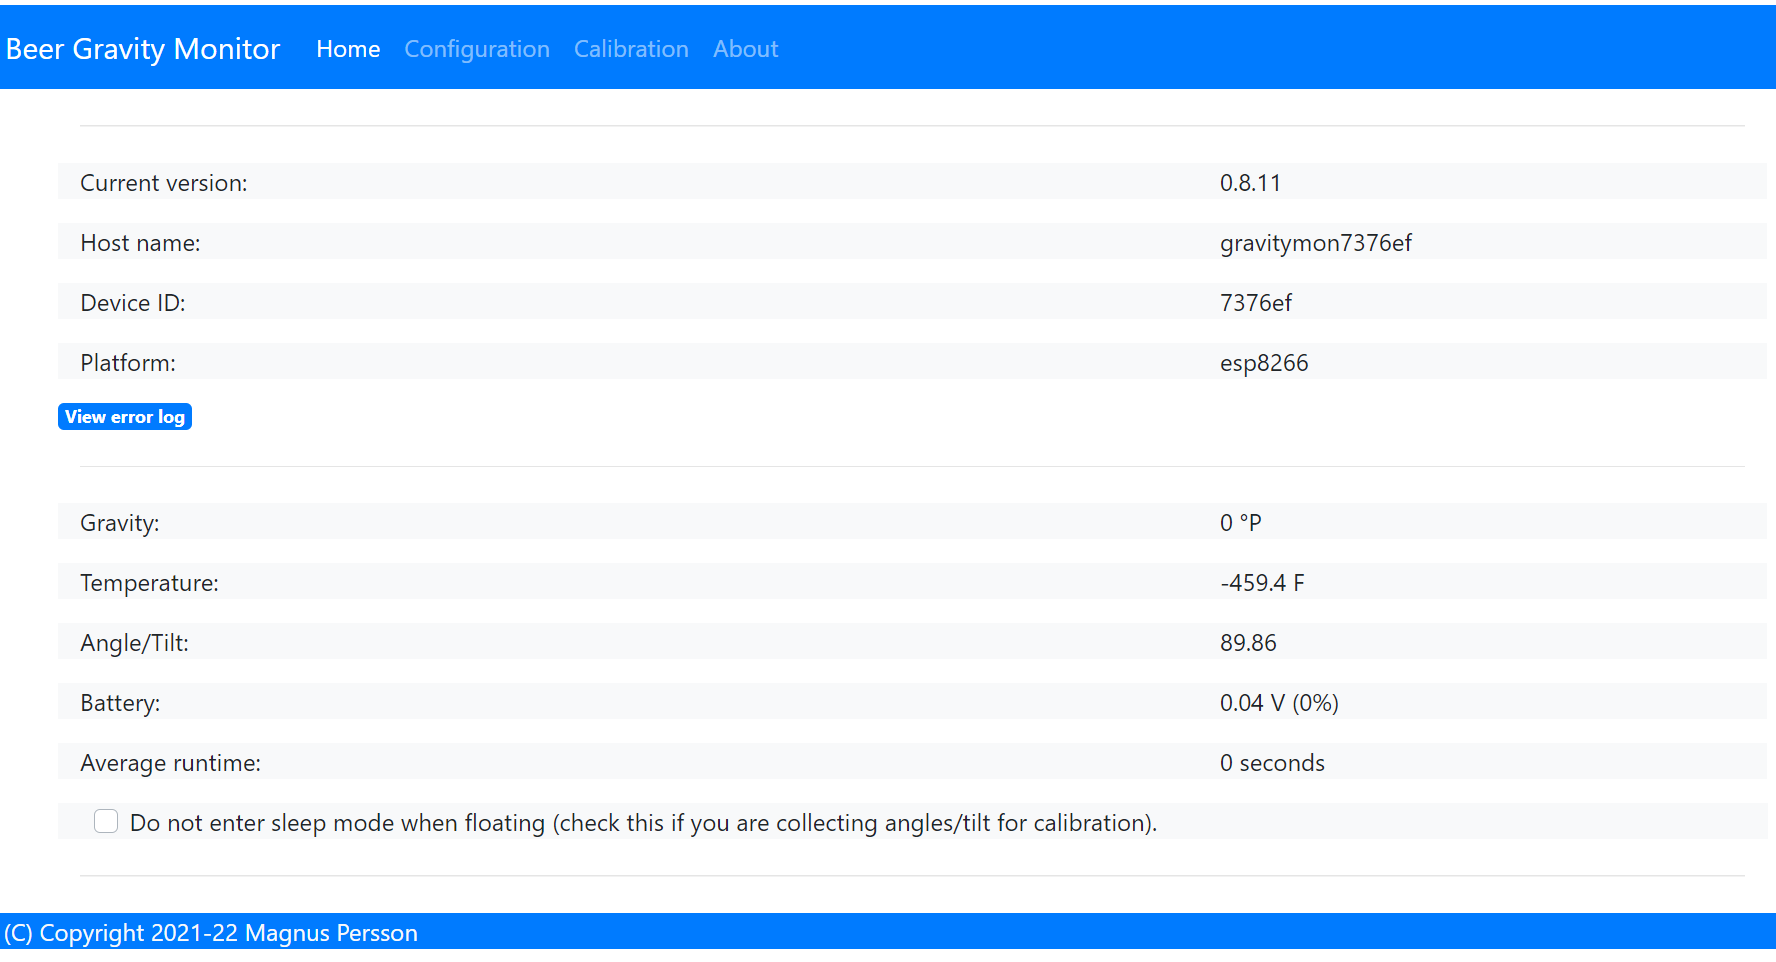
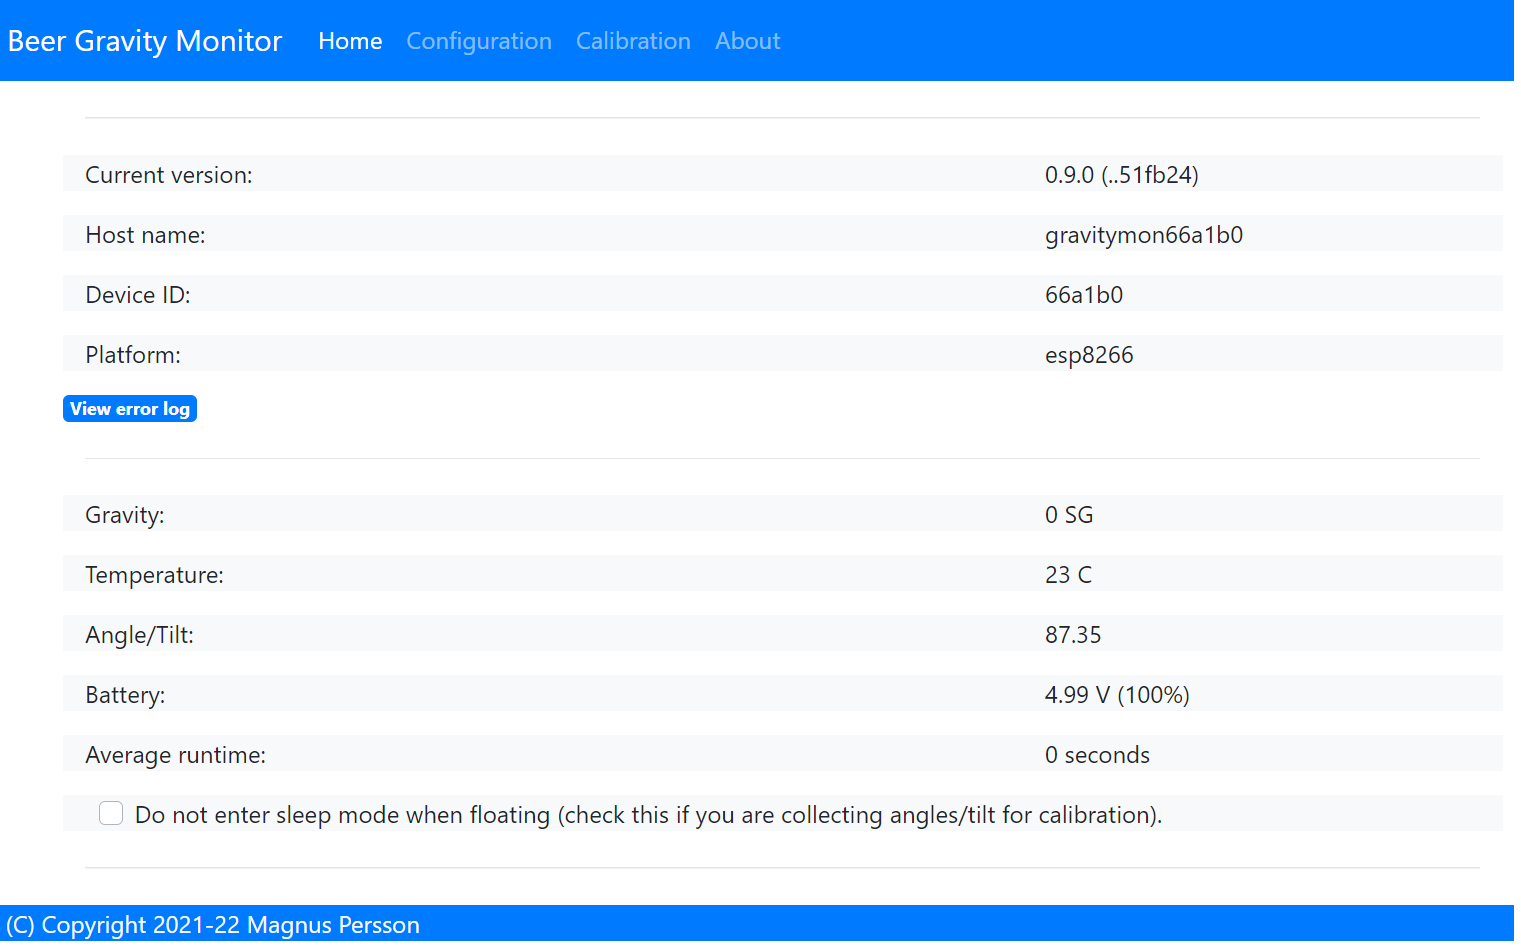
Update screendumps for 0.9

diff --git a/src_docs/source/configuration.rst b/src_docs/source/configuration.rst
@@ -22,6 +22,7 @@ URL: (http://gravmon.local)
   :width: 800
   :alt: Index page
 
+
 Configuration is accessed by entering the URL for the device, this will be the mDNS name *device.local* or the IP adress. The following chapter assumes the device name is *gravmon*.
 
 The main page shows the device readings; gravity, angle, temperature and battery charge. If the checkbox is active then the device will never go into sleep mode. This is useful if 
@@ -54,17 +55,17 @@ Device Setting
 
 * **Device name:** 
 
-   This is unique name for the device. It will be used in pushing data as well as mDNS name on the network (<name>.local)
+This is unique name for the device. It will be used in pushing data as well as mDNS name on the network (<name>.local)
 
 * **Temperature format:** 
 
-   Choose between Celsius and Farenheight when displaying temperature. 
+Choose between Celsius and Farenheight when displaying temperature. 
 
 * **Interval:** 
 
-   This defines how long the device should be sleeping between the readings when in `gravity monitoring` mode. You will also see 
-   the values in minutes/seconds to easier set the interval. 900s is a recommended interval.  The sleep interval can 
-   be set between 10 - 3600 seconds (60 minutes). 
+This defines how long the device should be sleeping between the readings when in `gravity monitoring` mode. You will also see 
+the values in minutes/seconds to easier set the interval. 900s is a recommended interval.  The sleep interval can 
+be set between 10 - 3600 seconds (60 minutes). 
 
 .. note::
 
@@ -75,7 +76,7 @@ Device Setting
 
 * **Calibration values:** 
 
-   These are calibration data for the gyro. Place the device flat on a table and press the button to save the default orientation values. Without this calibration we cannot calculate the correct angle/tilt.
+These are calibration data for the gyro. Place the device flat on a table and press the button to save the default orientation values. Without this calibration we cannot calculate the correct angle/tilt.
 
 .. warning::
 
@@ -95,58 +96,58 @@ Push Settings
 
 * **HTTP 1 (POST):**
 
-   Endpoint to send data via http. Default format used Format used :ref:`data-formats-ispindle`. You can customize the format using :ref:`format-editor`.
+Endpoint to send data via http. Default format used Format used :ref:`data-formats-ispindle`. You can customize the format using :ref:`format-editor`.
 
-   If you add the prefix `https://` then the device will use SSL when sending data.
+If you add the prefix `https://` then the device will use SSL when sending data.
 
 * **HTTP 2 (POST):**
 
-   Endpoint to send data via http. Default format used :ref:`data-formats-ispindle`. You can customize the format using :ref:`format-editor`.
+Endpoint to send data via http. Default format used :ref:`data-formats-ispindle`. You can customize the format using :ref:`format-editor`.
 
-   If you add the prefix `https://` then the device will use SSL when sending data. 
+If you add the prefix `https://` then the device will use SSL when sending data. 
 
 * **Token:**
 
-   The token is included in the iSpindle JSON format and will be used for both HTTP targets. If you 
-   need to have 2 different tokens please use the :ref:`format-editor` to customize the data format. 
+The token is included in the iSpindle JSON format and will be used for both HTTP targets. If you 
+need to have 2 different tokens please use the :ref:`format-editor` to customize the data format. 
 
 * **HTTP 3 (GET):**
 
-   Endpoint to send data via http. This is using an HTTP GET request instead of a post. This means that the values are appended to the URL like; http://endpoint?param=value&param2=value2. You can customize the format using :ref:`format-editor`.
+Endpoint to send data via http. This is using an HTTP GET request instead of a post. This means that the values are appended to the URL like; http://endpoint?param=value&param2=value2. You can customize the format using :ref:`format-editor`.
 
-   If you add the prefix `https://` then the device will use SSL when sending data. 
+If you add the prefix `https://` then the device will use SSL when sending data. 
 
 * **Token 2:**
 
-   The token is included in the default format for the HTTP GET url but can be used for any of the formats. For HTTP GET use can use this for an authorization token with for instance ubidots or blynk http api. 
+The token is included in the default format for the HTTP GET url but can be used for any of the formats. For HTTP GET use can use this for an authorization token with for instance ubidots or blynk http api. 
 
 * **Brewfather URL:**
 
-   Endpoint to send data via http to brewfather. Format used :ref:`data-formats-brewfather`
+Endpoint to send data via http to brewfather. Format used :ref:`data-formats-brewfather`
 
-   SSL is not supported for this target.
+SSL is not supported for this target.
 
 * **HTTP Headers**
 
-   .. image:: images/config-popup1.png
-      :width: 300
-      :alt: HTTP Headers
+.. image:: images/config-popup1.png
+   :width: 300
+   :alt: HTTP Headers
 
-   You can define 2 http headers per push target. This is available via a pop-up window but dont forget
-   to press the save buttons on the post section to save the values. One common header is content type which is the 
-   default setting for http targets.
+You can define 2 http headers per push target. This is available via a pop-up window but dont forget
+to press the save buttons on the post section to save the values. One common header is content type which is the 
+default setting for http targets.
 
-   The input must have the format **'<header>: <value>'** for it to work. The UI will accept any value so errors 
-   will not show until the device tries to push data.
-
-
-   ::
-      
-      Content-Type: application/json
-      X-Auth-Token: <api-token>
+The input must have the format **'<header>: <value>'** for it to work. The UI will accept any value so errors 
+will not show until the device tries to push data.
 
 
-   Mozilla has a good guide on what headers are valid; `HTTP Headers <https://developer.mozilla.org/en-US/docs/Web/HTTP/Headers>`_ 
+::
+   
+   Content-Type: application/json
+   X-Auth-Token: <api-token>
+
+
+Mozilla has a good guide on what headers are valid; `HTTP Headers <https://developer.mozilla.org/en-US/docs/Web/HTTP/Headers>`_ 
 
 
 Push Settings (2)
@@ -158,37 +159,37 @@ Push Settings (2)
 
 * **Influx DB v2 URL:**
 
-   Endpoint to send data via http to InfluxDB. Format used :ref:`data-formats-influxdb2`. You can customize the format using :ref:`format-editor`.
+Endpoint to send data via http to InfluxDB. Format used :ref:`data-formats-influxdb2`. You can customize the format using :ref:`format-editor`.
 
-   SSL is not supported for this target. Raise a issue on github if this is wanted.
+SSL is not supported for this target. Raise a issue on github if this is wanted.
 
 * **Influx DB v2 Organisation:**
 
-   Name of organisation in Influx.
+Name of organisation in Influx.
 
 * **Influx DB v2 Bucket:**
 
-   Identifier for bucket.
+Identifier for bucket.
 
 * **Influx DB v2 Token:**
 
-   Token with write access to bucket.
+Token with write access to bucket.
 
 * **MQTT server:**
 
-   IP or name of server to send data to. Default format used :ref:`data-formats-mqtt`. You can customize the format using :ref:`format-editor`.
+IP or name of server to send data to. Default format used :ref:`data-formats-mqtt`. You can customize the format using :ref:`format-editor`.
 
 * **MQTT Port:**
 
-   Which port should be used for communication, default is 1883 (standard port). For SSL use 8883 (any port over 8000 is treated as SSL). 
+Which port should be used for communication, default is 1883 (standard port). For SSL use 8883 (any port over 8000 is treated as SSL). 
 
 * **MQTT user:**
 
-   Username or blank if anonymous is accepted
+Username or blank if anonymous is accepted
 
 * **MQTT password:**
 
-   Password or blank if anonymous is accepted
+Password or blank if anonymous is accepted
    
 
 Gravity Settings
@@ -200,25 +201,26 @@ Gravity Settings
 
 * **Gravity format:**
 
-   Gravity format can be eihter `SG` or `Plato`. The device will use SG Internally and convert to Plato when displaying or sending data.
+Gravity format can be eihter `SG` or `Plato`. The device will use SG Internally and convert to Plato when displaying or sending data.
 
 * **Gravity formula:**
 
-   Gravity formula is compatible with standard iSpindle formulas so any existing calculation option can be used. You can also use 
-   the feature to create the formula by supplying the raw data. See :ref:`create-formula`
+Gravity formula is compatible with standard iSpindle formulas so any existing calculation option can be used. You can also use 
+the feature to create the formula by supplying the raw data. See :ref:`create-formula`
 
-   The gravity formula accepts to paramaters, **tilt** for the angle or **temp** for temperature (temperature inserted into the formula 
-   will be in celsius). I would recommend to use the formula calculation feature instead since this is much easier.
+The gravity formula accepts to paramaters, **tilt** for the angle or **temp** for temperature (temperature inserted into the formula 
+will be in celsius). I would recommend to use the formula calculation feature instead since this is much easier.
 
 * **Temperature correct gravity:**
 
-   Will apply a temperature calibration formula to the gravity as a second step after gravity has been calculated. It's also possible to 
-   build this into the gravity formula.
+Will apply a temperature calibration formula to the gravity as a second step after gravity has been calculated. It's also possible to 
+build this into the gravity formula.
 
 .. warning::
+
    This formula assumes that the calibration has been done at 20°C / 68°F.
 
-Formula used in temperature correction. 
+   Formula used in temperature correction. 
 
 ::
 
@@ -235,38 +237,47 @@ Hardware Settings
 
 * **Voltage factor:**
 
-   Factor used to calcualate the battery voltage. If you get a too low/high voltage you can adjust this value.
+Factor used to calcualate the battery voltage. If you get a too low/high voltage you can adjust this value.
 
 * **Temperature correction:**
 
-   This value will be added to the temperature reading (negative value will reduce temperature reading). This is applied
-   when the device starts. So changing this will not take affect until the device is restarted.
+This value will be added to the temperature reading (negative value will reduce temperature reading). This is applied
+when the device starts. So changing this will not take affect until the device is restarted.
 
 * **Gyro Temperature:**
 
-   Enable this feature will use the temp sensor i the gyro instead of the DS18B20, the benefit is shorter run time and
-   longer battery life (this is an experimental feature). The value used is the first temperature reading from when the 
-   device is activated, since the gyro should be cool this is reflecting the surronding temperature. After it has 
-   been running the value would be totally off.  
+Enable this feature will use the temp sensor i the gyro instead of the DS18B20, the benefit is shorter run time and
+longer battery life (this is an experimental feature). The value used is the first temperature reading from when the 
+device is activated, since the gyro should be cool this is reflecting the surronding temperature. After it has 
+been running the value would be totally off.  
 
 * **Bluetooth: (Only ESP32)**
 
-   If the build is using an ESP32 then you can send data over BLE, simulating a Tilt device. Choose the color that you want the device to simulate.
+If the build is using an ESP32 then you can send data over BLE, simulating a Tilt device. Choose the color that you want the device to simulate.
 
 * **OTA URL:**
 
-   Should point to a URL where the firmware.bin file + version.json file are located. For an ESP32 target the firmware should be named firmware32.bin.
+Should point to a URL where the firmware.bin file + version.json file are located. For an ESP32 target the firmware should be named firmware32.bin.
 
-   For the OTA to work, place the following files (version.json + firmware.bin) at the location that you pointed out in OTA URL. If the version number in the json file is newer than in the 
-   code the update will be done during startup.
+For the OTA to work, place the following files (version.json + firmware.bin) at the location that you pointed out in OTA URL. If the version number in the json file is newer than in the 
+code the update will be done during startup.
 
-   If you have the previx `https://` then the device will use secure transfer without CA validation.
+If you have the previx `https://` then the device will use secure transfer without CA validation.
 
-   Example; OTA URL (don't forget trailing dash), the name of the file should be firmware.bin
+Example; OTA URL (don't forget trailing dash), the name of the file should be firmware.bin
 
 .. code-block::
 
    http://192.168.1.1/firmware/gravmon/
    https://192.168.1.1/firmware/gravmon/
+
+
+* **Upload Firmware**
+
+This option gives you the possibility to install an new version of the firmware (or any firmware that uses the standard flash layout).
+
+.. image:: images/firmware.png
+  :width: 600
+  :alt: Update firmware
 
 
